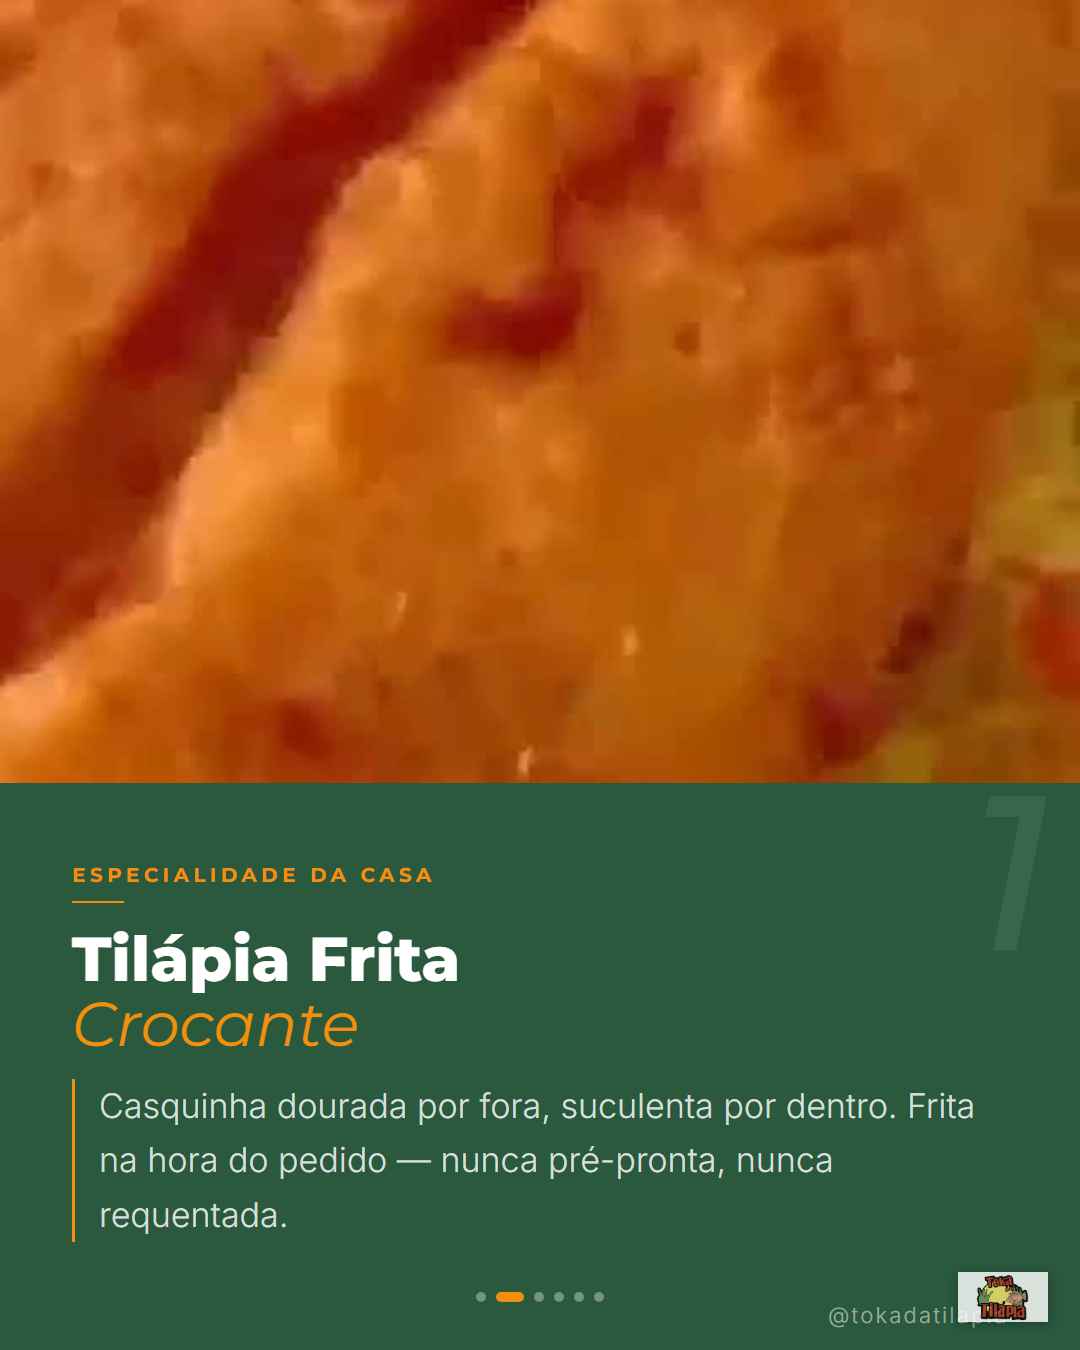
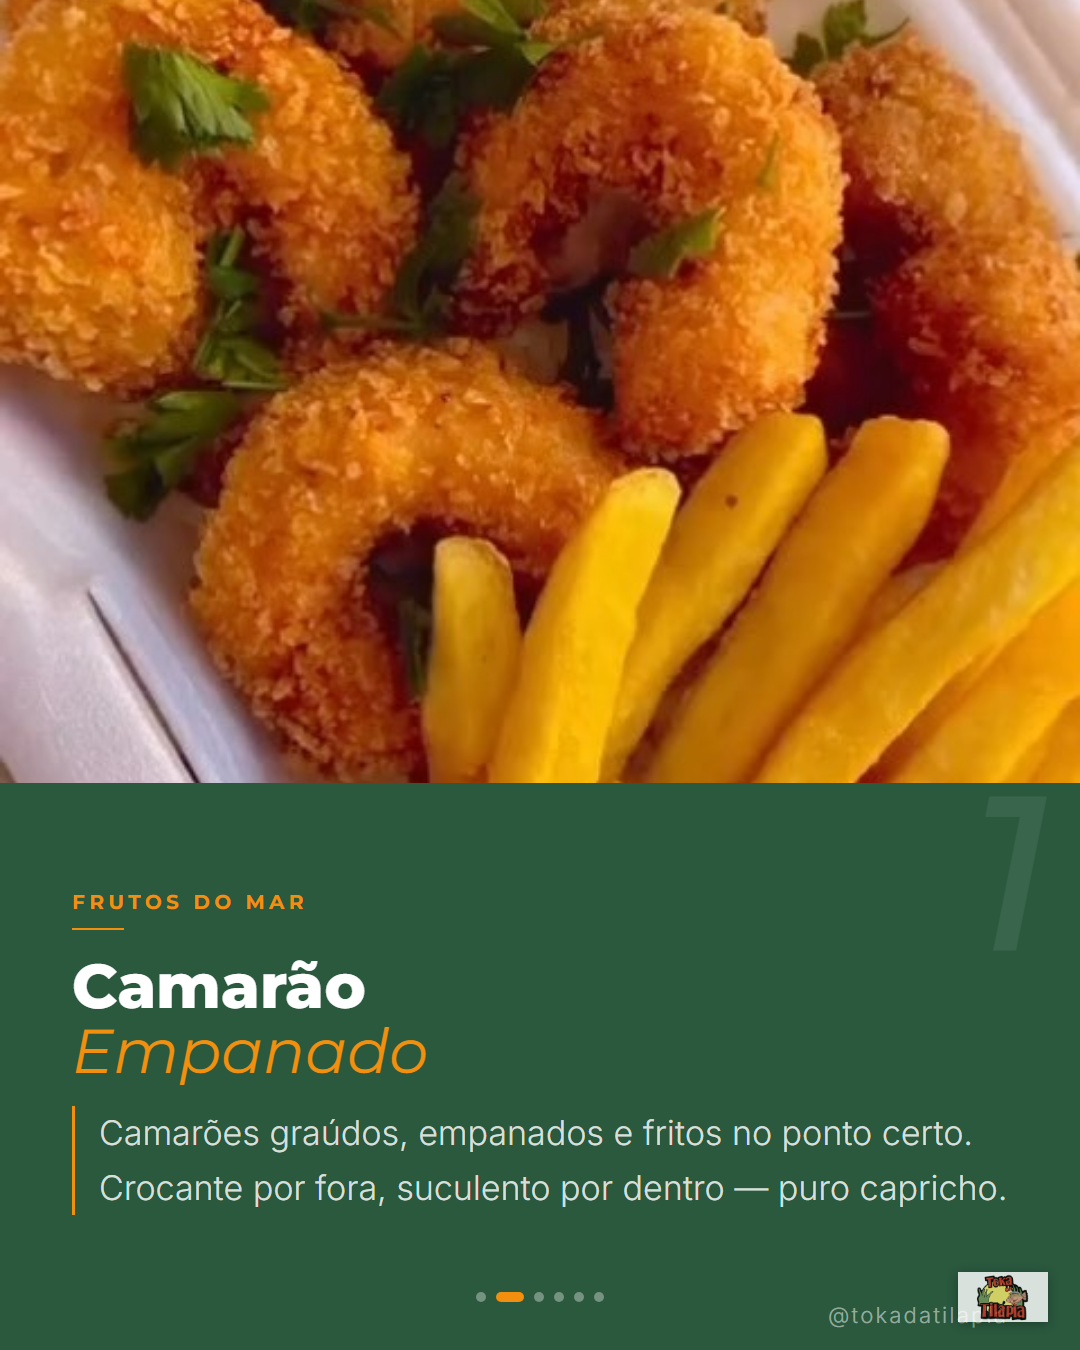
fix: carrossel 03 — substituir Unsplash por fotos reais do Bruno
Slides 2, 4 e 5 agora usam apenas fotos autênticas da Toka.
Slide 2: camarão empanado (imgi_51), slide 4: filé grelhado (imgi_39),
slide 5: gratinada (imgi_33). Zero dependência do Unsplash.

diff --git a/conteudo/carrossel-cardapio-2026-06-08/carrossel.html b/conteudo/carrossel-cardapio-2026-06-08/carrossel.html
@@ -379,17 +379,17 @@
   </div>
 </div>
 
-<!-- ═══════════ SLIDE 2 — TILÁPIA FRITA ═══════════ -->
+<!-- ═══════════ SLIDE 2 — CAMARÃO EMPANADO ═══════════ -->
 <div class="slide s-split" id="s2">
   <div class="photo-top">
-    <img src="../../dados/Fotos-originais/imgi_35_587793672_830680173175839_5167891955309693755_n.jpg" alt="Tilápia frita crocante dourada">
+    <img src="../../dados/Fotos-originais/imgi_51_503038831_588752950913155_7791408612232636239_n.jpg" alt="Camarão empanado crocante">
   </div>
   <div class="text-btm">
     <div class="num">1</div>
-    <div class="tag">Especialidade da casa</div>
+    <div class="tag">Frutos do mar</div>
     <div class="bar"></div>
-    <h2>Tilápia Frita<br><em>Crocante</em></h2>
-    <p class="body">Casquinha dourada por fora, suculenta por dentro. Frita na hora do pedido — nunca pré-pronta, nunca requentada.</p>
+    <h2>Camarão<br><em>Empanado</em></h2>
+    <p class="body">Camarões graúdos, empanados e fritos no ponto certo. Crocante por fora, suculento por dentro — puro capricho.</p>
     <span class="handle">@tokadatilapia</span>
   </div>
   <img class="wm" src="../../identidade/logo.jpeg" alt="Toka da Tilápia">
@@ -427,17 +427,17 @@
   </div>
 </div>
 
-<!-- ═══════════ SLIDE 4 — CEVICHE ═══════════ -->
+<!-- ═══════════ SLIDE 4 — FILÉ GRELHADO ═══════════ -->
 <div class="slide s-split" id="s4">
   <div class="photo-top">
-    <img src="https://images.unsplash.com/photo-1761314037083-329b3050b351?crop=entropy&cs=tinysrgb&fit=max&fm=jpg&ixid=M3w5NTMzMTd8MHwxfGFsbHx8fHx8fHx8fDE3ODA5NzI1OTJ8&ixlib=rb-4.1.0&q=80&w=1080" alt="Ceviche de peixe fresco">
+    <img src="../../dados/Fotos-originais/imgi_39_583722530_846050001407322_2463166743138032696_n.jpg" alt="Filé de tilápia grelhado com farofa e batata" style="object-position: center top;">
   </div>
   <div class="text-btm">
     <div class="num">3</div>
-    <div class="tag">Entrada refrescante</div>
+    <div class="tag">Prato completo</div>
     <div class="bar"></div>
-    <h2>Ceviche<br><em>da Toka</em></h2>
-    <p class="body">Peixe fresco marinado com limão, coentro e pimenta. Leve, refrescante e preparado na hora — do jeito que ceviche tem que ser.</p>
+    <h2>Filé Grelhado<br><em>no ponto certo</em></h2>
+    <p class="body">Filé de tilápia grelhado com farofa temperada e batata frita. Prato completo, generoso e feito na hora.</p>
     <span class="handle">@tokadatilapia</span>
   </div>
   <img class="wm" src="../../identidade/logo.jpeg" alt="Toka da Tilápia">
@@ -453,7 +453,7 @@
 
 <!-- ═══════════ SLIDE 5 — PONTE ═══════════ -->
 <div class="slide" id="s5">
-  <div class="bg-full" style="background-image: url('https://images.unsplash.com/photo-1761314015048-f665ea0e90da?crop=entropy&cs=tinysrgb&fit=max&fm=jpg&ixid=M3w5NTMzMTd8MHwxfGFsbHx8fHx8fHx8fDE3ODA5NzI1OTF8&ixlib=rb-4.1.0&q=80&w=1080');"></div>
+  <div class="bg-full" style="background-image: url('../../dados/Fotos-originais/imgi_33_621036619_25598700183113807_6497398576661590441_n.jpg'); background-position: center top;"></div>
   <div class="overlay"></div>
   <div class="content">
     <h2>Cada prato feito<br>na hora <em>do pedido.</em></h2>